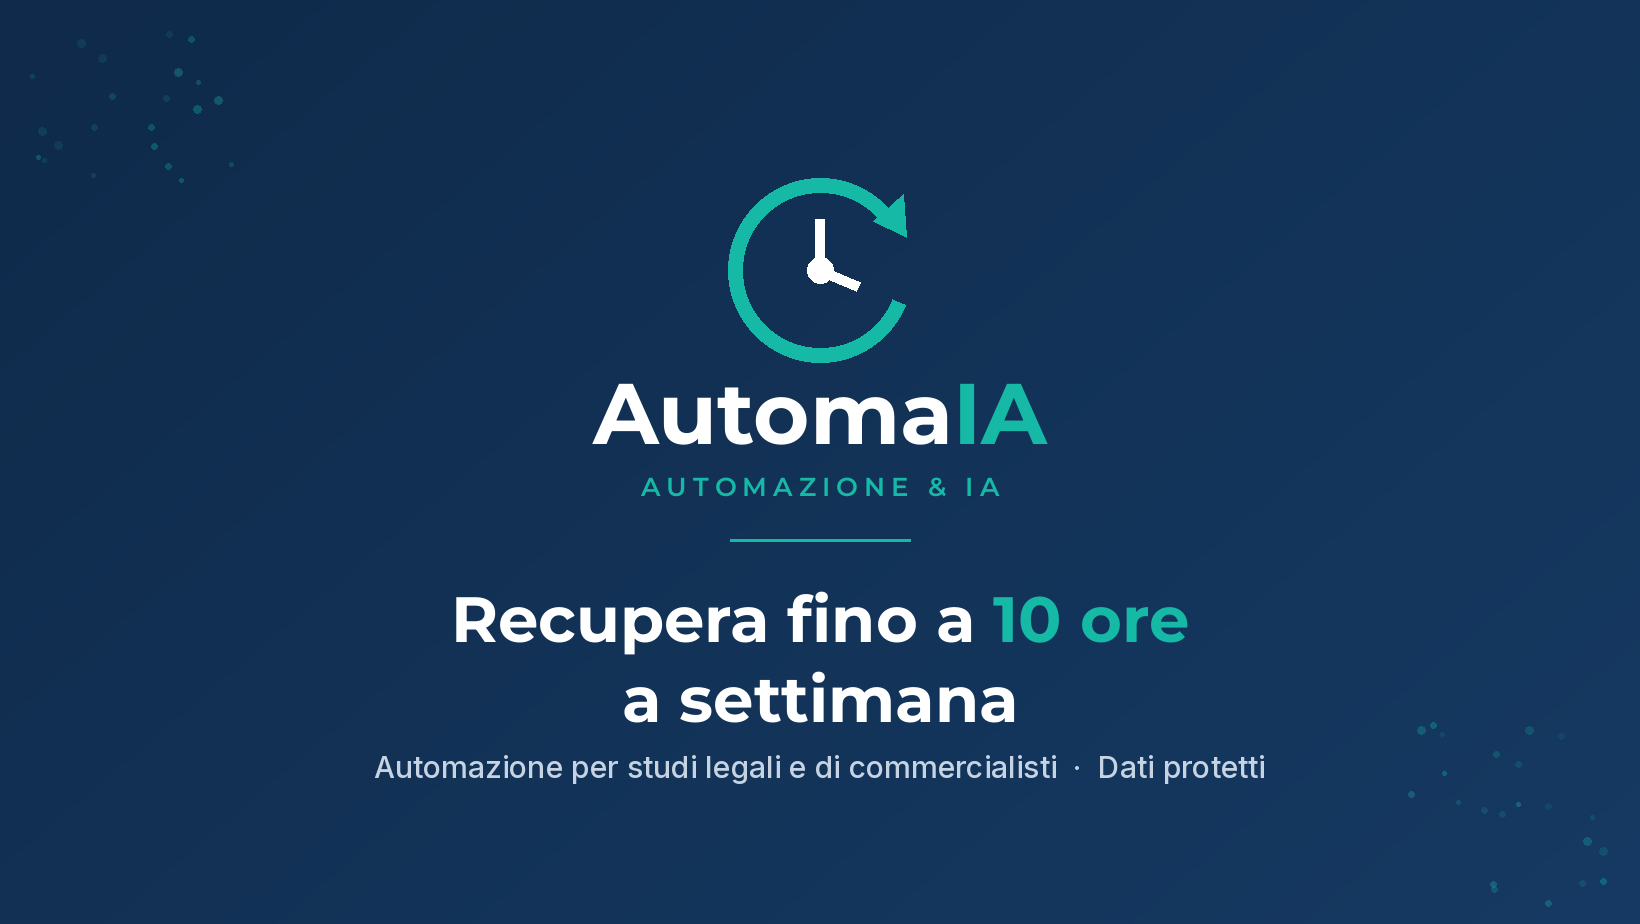
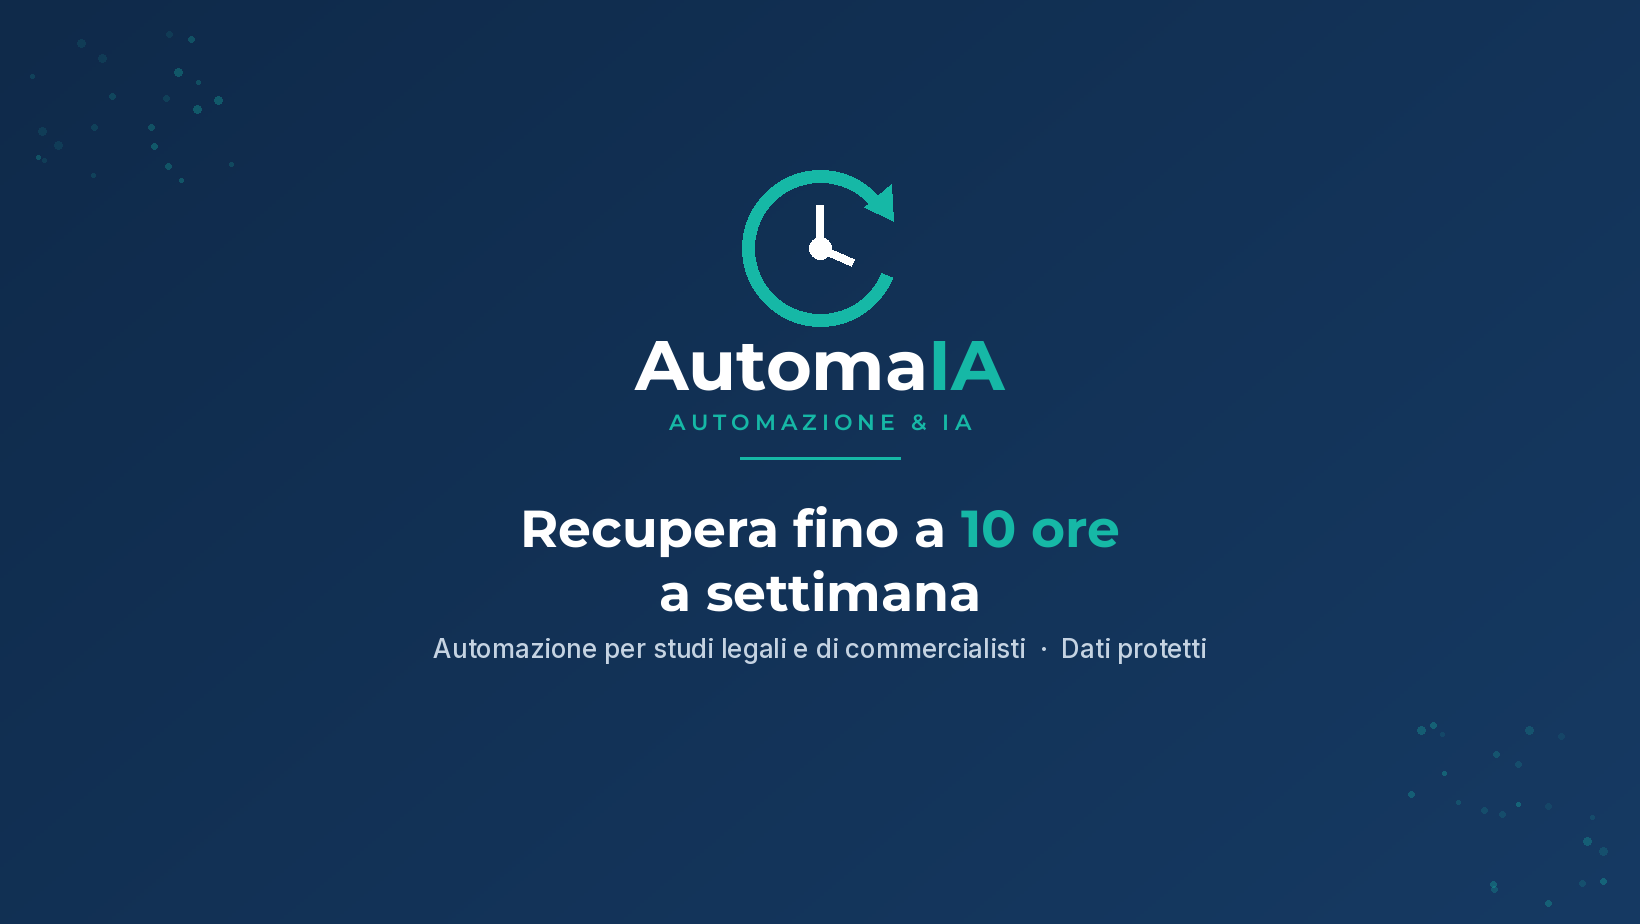
Bannière Facebook : texte rétréci et compacté pour rester dans la zone visible

Changed region(s): [[0.2488, 0.2424, 0.7463, 0.7879], [0.2177, 0.8182, 0.7774, 0.8485], [0.4665, 0.1818, 0.5598, 0.2727]]

diff --git a/gen_banner_fb.py b/gen_banner_fb.py
@@ -81,33 +81,32 @@ for cxr, cyr in [(0, 0), (W, H)]:
         draw.ellipse([cxr + dx - rad, cyr + dy - rad, cxr + dx + rad, cyr + dy + rad],
                      fill=(22, 184, 166, random.randint(25, 90)))
 
-# --- centered emblem: icon + wordmark + tagline ---
-draw_mark(draw, W // 2, 270, 92, ring_color=TEAL, hands_color=WHITE)
+# --- centered emblem: icon + wordmark + tagline (compact, shifted up) ---
+draw_mark(draw, W // 2, 248, 78, ring_color=TEAL, hands_color=WHITE)
 
-f_word = font(MONT, 86, "Bold")
-centered(draw, [("Automa", f_word, WHITE), ("IA", f_word, TEAL)], 360)
+f_word = font(MONT, 70, "Bold")
+centered(draw, [("Automa", f_word, WHITE), ("IA", f_word, TEAL)], 322)
 
-f_tag = font(MONT, 26, "SemiBold")
+f_tag = font(MONT, 22, "SemiBold")
 tag = "AUTOMAZIONE & IA"
 # letter-spaced, centered
-spaced = [(c, f_tag, TEAL) for c in tag]
-widths = [draw.textlength(c, font=f_tag) + 6 for c in tag]
-total = sum(widths) - 6
+widths = [draw.textlength(c, font=f_tag) + 5 for c in tag]
+total = sum(widths) - 5
 x = (W - total) / 2
 for c, w in zip(tag, widths, strict=False):
-    draw.text((x, 470), c, font=f_tag, fill=TEAL)
+    draw.text((x, 408), c, font=f_tag, fill=TEAL)
     x += w
 
 # divider accent
-draw.line([(W // 2 - 90, 540), (W // 2 + 90, 540)], fill=TEAL, width=3)
+draw.line([(W // 2 - 80, 458), (W // 2 + 80, 458)], fill=TEAL, width=3)
 
-# --- value proposition (centered) ---
-f_h = font(MONT, 64, "Bold")
-centered(draw, [("Recupera fino a ", f_h, WHITE), ("10 ore", f_h, TEAL)], 580)
-centered(draw, [("a settimana", f_h, WHITE)], 660)
+# --- value proposition (centered, smaller) ---
+f_h = font(MONT, 52, "Bold")
+centered(draw, [("Recupera fino a ", f_h, WHITE), ("10 ore", f_h, TEAL)], 496)
+centered(draw, [("a settimana", f_h, WHITE)], 560)
 
-f_sub = font(INTER, 30, "Medium")
-centered(draw, [("Automazione per studi legali e di commercialisti  ·  Dati protetti", f_sub, GREY)], 748)
+f_sub = font(INTER, 26, "Medium")
+centered(draw, [("Automazione per studi legali e di commercialisti  ·  Dati protetti", f_sub, GREY)], 632)
 
 out = "agence-ia/marque/facebook-banner.png"
 base.save(out, "PNG")